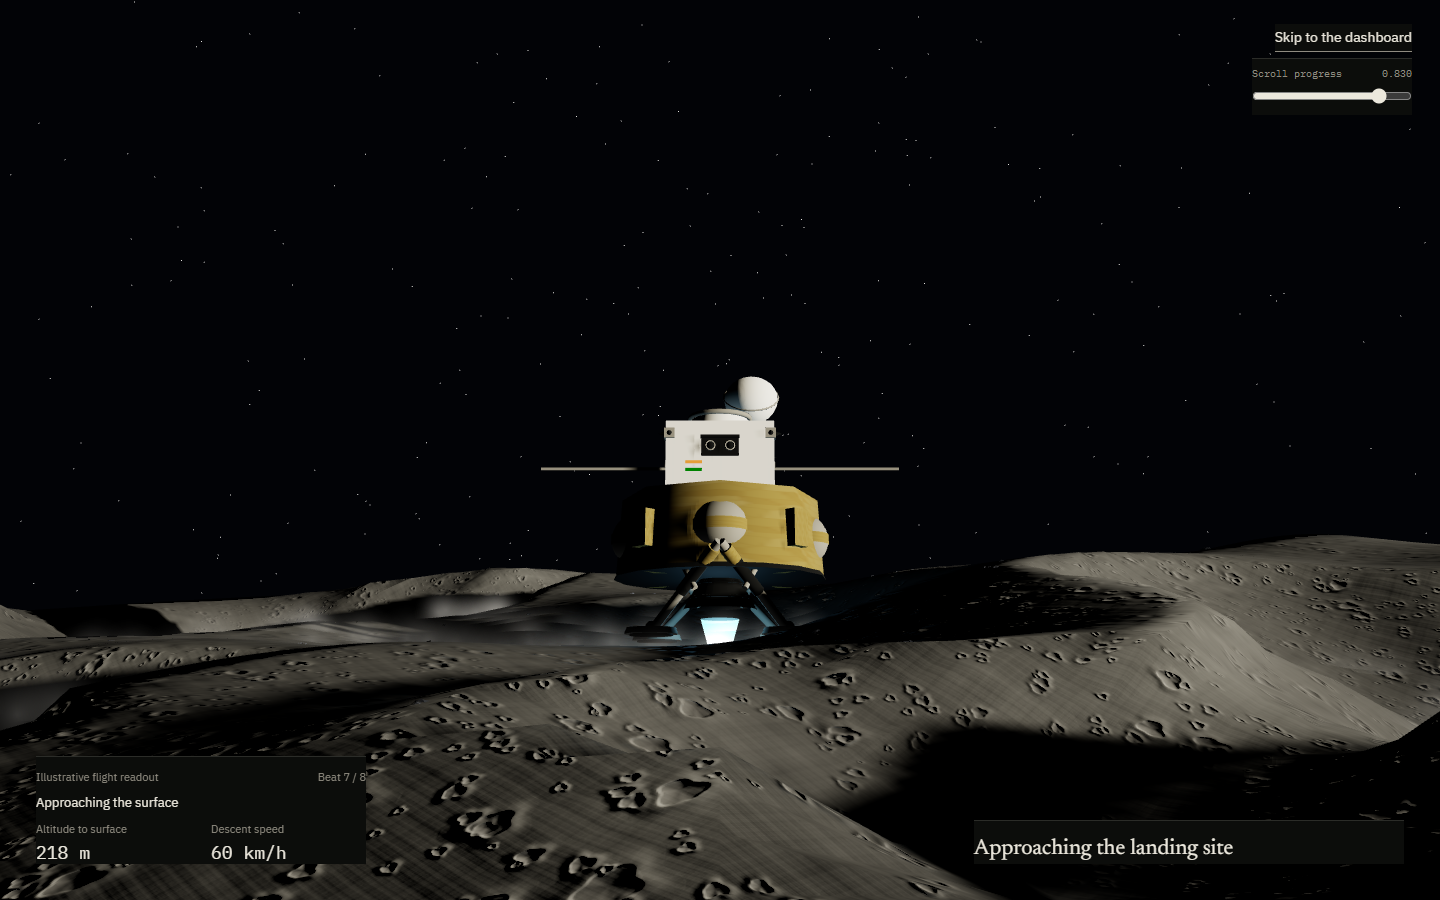
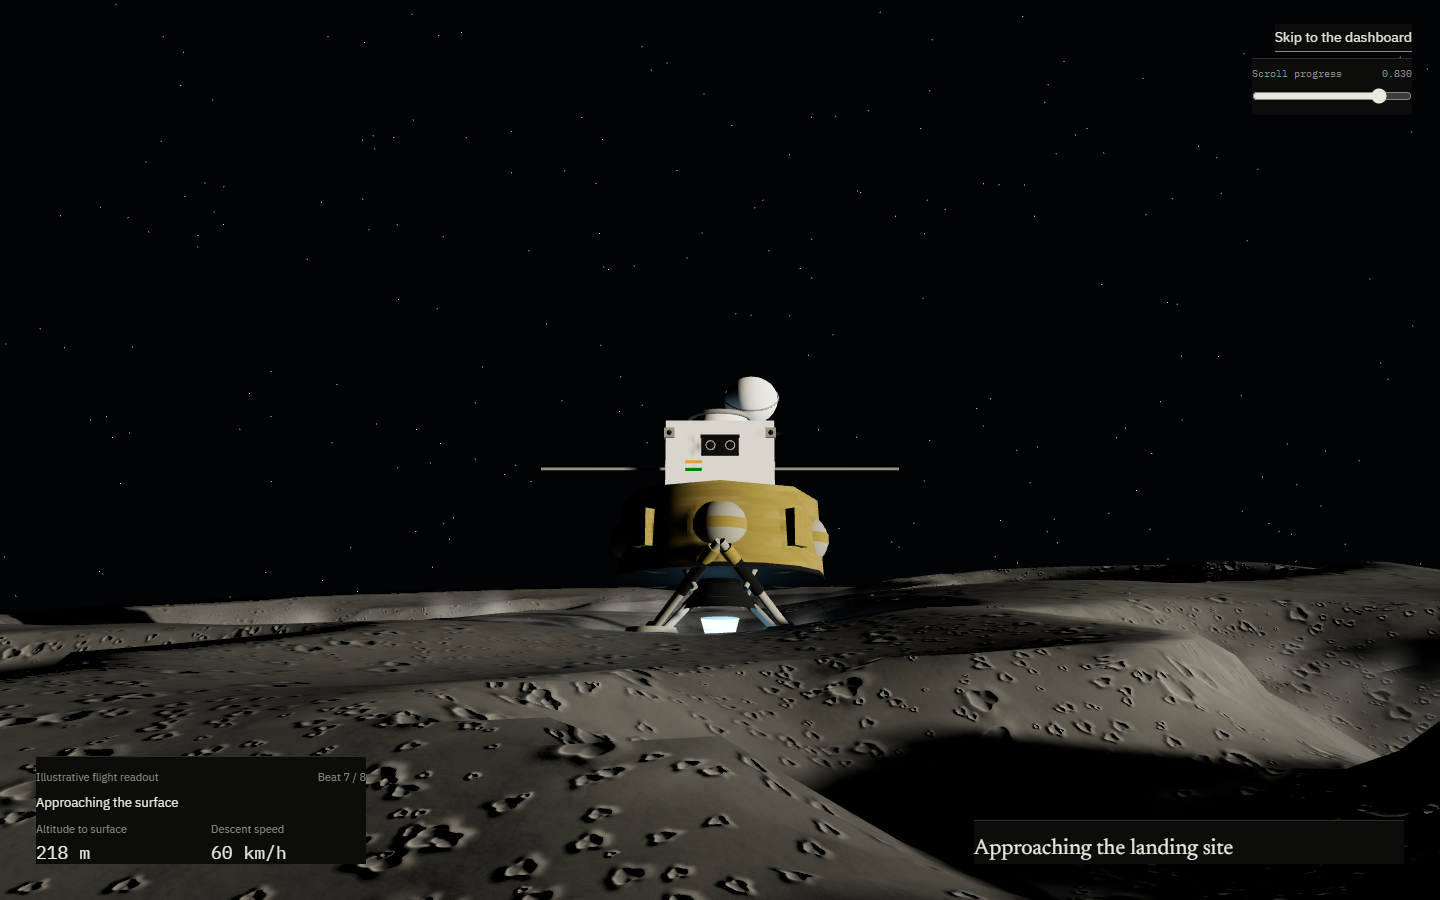
fix: eliminate diagonal regolith texture striping with isotropic noise and fix Beat 8 Sky-Dome lander scale clipping

Changed region(s): [[0.0, 0.5911, 1.0, 1.0], [0.625, 0.9333, 0.7188, 1.0]]

diff --git a/src/scene/materials/RocketTextures.ts b/src/scene/materials/RocketTextures.ts
@@ -563,9 +563,58 @@ export class RocketTextures {
     const size = 1024;
     const prng = new DeterministicPRNG(19690720);
 
-    // 1. Compute Seamless 2D Toroidal Heightfield (Multi-Scale Noise & Fine Dust Grain)
+    // 1. Compute Seamless 2D Toroidal Heightfield (Isotropic Multi-Octave Noise & Fine Dust Grain)
     const heightField = new Float32Array(size * size);
-    const twoPi = Math.PI * 2;
+
+    // Permutation table for seamless toroidal gradient noise
+    const perm = new Uint8Array(512);
+    for (let i = 0; i < 256; i++) perm[i] = i;
+    for (let i = 255; i > 0; i--) {
+      const j = Math.floor(prng.next() * (i + 1));
+      const tmp = perm[i]; perm[i] = perm[j]; perm[j] = tmp;
+    }
+    for (let i = 0; i < 256; i++) perm[256 + i] = perm[i];
+
+    // 8 isotropic 2D unit gradients offset by 37° (non-axis-aligned, non-diagonal)
+    const gradX = new Float32Array(8);
+    const gradY = new Float32Array(8);
+    for (let g = 0; g < 8; g++) {
+      const ang = (g / 8) * Math.PI * 2 + (37 * Math.PI / 180);
+      gradX[g] = Math.cos(ang);
+      gradY[g] = Math.sin(ang);
+    }
+
+    const sampleSeamlessNoise = (u: number, v: number, freq: number): number => {
+      const fu = u * freq;
+      const fv = v * freq;
+      const x0 = Math.floor(fu);
+      const y0 = Math.floor(fv);
+      const fx = fu - x0;
+      const fy = fv - y0;
+      // Quintic smoothstep for C2 continuity (eliminates grid seams and banding)
+      const sx = fx * fx * fx * (fx * (fx * 6 - 15) + 10);
+      const sy = fy * fy * fy * (fy * (fy * 6 - 15) + 10);
+
+      // Toroidal wrapping so textures tile seamlessly across (16, 16) repeat
+      const gx0 = ((x0 % freq) + freq) % freq;
+      const gy0 = ((y0 % freq) + freq) % freq;
+      const gx1 = (gx0 + 1) % freq;
+      const gy1 = (gy0 + 1) % freq;
+
+      const g00 = perm[(perm[gx0 % 256] + gy0) % 256] % 8;
+      const g10 = perm[(perm[gx1 % 256] + gy0) % 256] % 8;
+      const g01 = perm[(perm[gx0 % 256] + gy1) % 256] % 8;
+      const g11 = perm[(perm[gx1 % 256] + gy1) % 256] % 8;
+
+      const d00 = gradX[g00] * fx + gradY[g00] * fy;
+      const d10 = gradX[g10] * (fx - 1) + gradY[g10] * fy;
+      const d01 = gradX[g01] * fx + gradY[g01] * (fy - 1);
+      const d11 = gradX[g11] * (fx - 1) + gradY[g11] * (fy - 1);
+
+      const nx0 = d00 + sx * (d10 - d00);
+      const nx1 = d01 + sx * (d11 - d01);
+      return nx0 + sy * (nx1 - nx0);
+    };
 
     for (let y = 0; y < size; y++) {
       const v = y / size;
@@ -573,17 +622,15 @@ export class RocketTextures {
         const u = x / size;
         const idx = y * size + x;
 
-        // Base periodic harmonic undulations (seamless integer frequencies)
+        // Isotropic multi-scale terrain noise (completely eliminates diagonal grid moiré)
         let elev = 0.50;
-        elev += 0.045 * Math.sin(twoPi * 2 * u) * Math.cos(twoPi * 2 * v);
-        elev += 0.030 * Math.sin(twoPi * 5 * u + 1.2) * Math.sin(twoPi * 4 * v);
-        elev += 0.018 * Math.cos(twoPi * 9 * u) * Math.cos(twoPi * 8 * v);
-        elev += 0.011 * Math.sin(twoPi * 17 * u - 0.7) * Math.sin(twoPi * 15 * v);
-        elev += 0.007 * Math.sin(twoPi * 31 * u + 2.1) * Math.cos(twoPi * 29 * v);
-        // High-frequency fine dust grain noise
-        elev += 0.004 * Math.sin(twoPi * 63 * u - 1.4) * Math.sin(twoPi * 61 * v);
-        elev += 0.0025 * Math.cos(twoPi * 127 * u + 0.8) * Math.cos(twoPi * 125 * v);
-        elev += (prng.next() - 0.5) * 0.004; // gritty microscopic dust noise
+        elev += sampleSeamlessNoise(u, v, 3) * 0.075;
+        elev += sampleSeamlessNoise(u, v, 6) * 0.040;
+        elev += sampleSeamlessNoise(u, v, 12) * 0.022;
+        elev += sampleSeamlessNoise(u, v, 24) * 0.012;
+        elev += sampleSeamlessNoise(u, v, 48) * 0.006;
+        elev += sampleSeamlessNoise(u, v, 96) * 0.003;
+        elev += (prng.next() - 0.5) * 0.005; // powdery micro-grain grit
 
         heightField[idx] = elev;
       }

diff --git a/src/scene/models/LunarSurface.ts b/src/scene/models/LunarSurface.ts
@@ -101,11 +101,23 @@ const LANDING_CRATERS: OrganicCraterDef[] = [
  * and smoothly blending outer ejecta slopes into surrounding topography.
  */
 export function calculateTerrainSample(x: number, z: number): { y: number; cavity: number; rim: number } {
-  // 1. Multi-octave harmonic lunar topography
-  let y = Math.sin(x * 0.08) * 0.55 + Math.cos(z * 0.09) * 0.45;
-  y += Math.sin(x * 0.22 + z * 0.18) * 0.28;
-  y += Math.sin(x * 0.55 - z * 0.42) * 0.12;
-  y += Math.sin(x * 1.25 + z * 0.95) * 0.04;
+  // 1. Isotropic multi-harmonic lunar topography rotated by non-axis-aligned angles
+  let y = 0;
+  // Direction 19°
+  const u1 = x * 0.945 + z * 0.326;
+  y += Math.sin(u1 * 0.085) * 0.55;
+  // Direction 73°
+  const u2 = x * 0.292 + z * 0.956;
+  y += Math.sin(u2 * 0.11 + 1.2) * 0.42;
+  // Direction 137°
+  const u3 = -x * 0.731 + z * 0.682;
+  y += Math.sin(u3 * 0.22 - 0.7) * 0.25;
+  // Direction 211°
+  const u4 = -x * 0.857 - z * 0.515;
+  y += Math.sin(u4 * 0.46 + 2.1) * 0.12;
+  // Direction 289°
+  const u5 = x * 0.326 - z * 0.945;
+  y += Math.sin(u5 * 0.92 - 1.4) * 0.04;
 
   let cavity = 0;
   let rim = 0;
@@ -275,7 +287,7 @@ export class LunarSurface {
       // Albedo mottling:
       // Dark basaltic grey #3b3a38 in crater floors blending to lighter highland dust #7d7b76 on ridges
       let tone = 0.5 + (sample.y * 0.25) + (sample.rim * 0.40) - (sample.cavity * 0.50);
-      const microNoise = (Math.sin(x * 14.0 + z * 11.0) * Math.cos(x * 9.0 - z * 16.0)) * 0.04;
+      const microNoise = (Math.sin(x * 7.3 + z * 12.1) + Math.cos(x * 13.7 - z * 5.9)) * 0.025;
       tone = Math.max(0.0, Math.min(1.0, tone + microNoise));
 
       let cr: number, cg: number, cb: number;

diff --git a/src/scene/ThreeConductor.ts b/src/scene/ThreeConductor.ts
@@ -737,7 +737,8 @@ export class ThreeConductor {
     const domeMorph = ease(seg(p, 0.86, 0.98));
     this.surface.setMorphProgress(domeMorph);
     this.skyDome.group.visible = domeMorph > 0.05;
-    this.skyDome.domeWireframeGroup.scale.set(domeMorph, domeMorph, domeMorph);
+    // Keep dome wireframe fully expanded so it never crushes/shrinks around the lander
+    this.skyDome.domeWireframeGroup.scale.set(1.0, 1.0, 1.0);
     this.isDomeInteractive = p >= 0.86;
 
     // Reparent lander preserving single persistent instance
@@ -745,7 +746,7 @@ export class ThreeConductor {
       if (this.lander.group.parent !== this.skyDome.group) {
         this.skyDome.group.add(this.lander.group);
       }
-      const landerY = THREE.MathUtils.lerp(0.85, 0.21, domeMorph);
+      const landerY = THREE.MathUtils.lerp(0.85, 0.085, domeMorph);
       this.lander.group.position.set(0, landerY, 0);
       this.lander.group.rotation.set(0, 0, 0);
       this.lander.group.scale.set(this._craftState.landerScale, this._craftState.landerScale, this._craftState.landerScale);

diff --git a/src/scene/kinematics/flightKinematics.ts b/src/scene/kinematics/flightKinematics.ts
@@ -176,9 +176,9 @@ export function computeCraftState(
     landerWorldY = 0.85;
     landerWorldZ = 0;
 
-    // Morph scale to fit cleanly within dashboard sky dome base without clipping wireframe
+    // Morph scale to fit cleanly within dashboard sky dome base without clipping wireframe (scaled by ~0.4x to 0.10)
     const domeMorph = ease(seg(p, 0.86, 0.98));
-    landerScale = THREE.MathUtils.lerp(1.0, 0.24, domeMorph);
+    landerScale = THREE.MathUtils.lerp(1.0, 0.10, domeMorph);
   }
 
   // -------------------------------------------------------------------------
@@ -477,7 +477,7 @@ export function computeCameraState(
     const cz = targetZoom * Math.cos(targetPitch) * Math.cos(targetYaw);
 
     camPos.set(cx, cy, cz);
-    const targetLookY = THREE.MathUtils.lerp(0.85, 0.22, domeMorph);
+    const targetLookY = THREE.MathUtils.lerp(0.85, 0.085, domeMorph);
     lookTarget.set(0, targetLookY, 0); // Locked permanently on centered lander
   }
 

diff --git a/src/scene/__tests__/sceneContinuity.test.ts b/src/scene/__tests__/sceneContinuity.test.ts
@@ -59,7 +59,9 @@ class HeadlessSceneRig {
       if (this.lander.group.parent !== this.scene) {
         this.scene.add(this.lander.group);
       }
-      this.lander.group.position.set(0, 0.85, 0);
+      const domeMorph = Math.min(1, Math.max(0, (p - 0.86) / 0.12));
+      const landerY = THREE.MathUtils.lerp(0.85, 0.085, domeMorph);
+      this.lander.group.position.set(0, landerY, 0);
       this.lander.group.rotation.set(0, 0, 0);
       this.lander.group.scale.set(craftState.landerScale, craftState.landerScale, craftState.landerScale);
     } else if (p >= 0.55) {

diff --git a/takeScreenshots.js b/takeScreenshots.js
@@ -93,6 +93,11 @@ async function run() {
   await scrollToProgress(0.85);
   await page.screenshot({ path: path.join(outDir, '05-lunar-touchdown.png') });
 
+  // 5b. Stage 5b: Beat 8 - Sky-Dome instrument transition (0.90)
+  console.log('Capturing stage 5b: Beat 8 Sky-Dome transition...');
+  await scrollToProgress(0.90);
+  await page.screenshot({ path: path.join(outDir, '05b-beat8-skydome-morph.png') });
+
   // 6. Stage 6: Sky-Dome Dashboard
   console.log('Capturing stage 6: Sky-Dome Dashboard...');
   await scrollToProgress(1.0);
